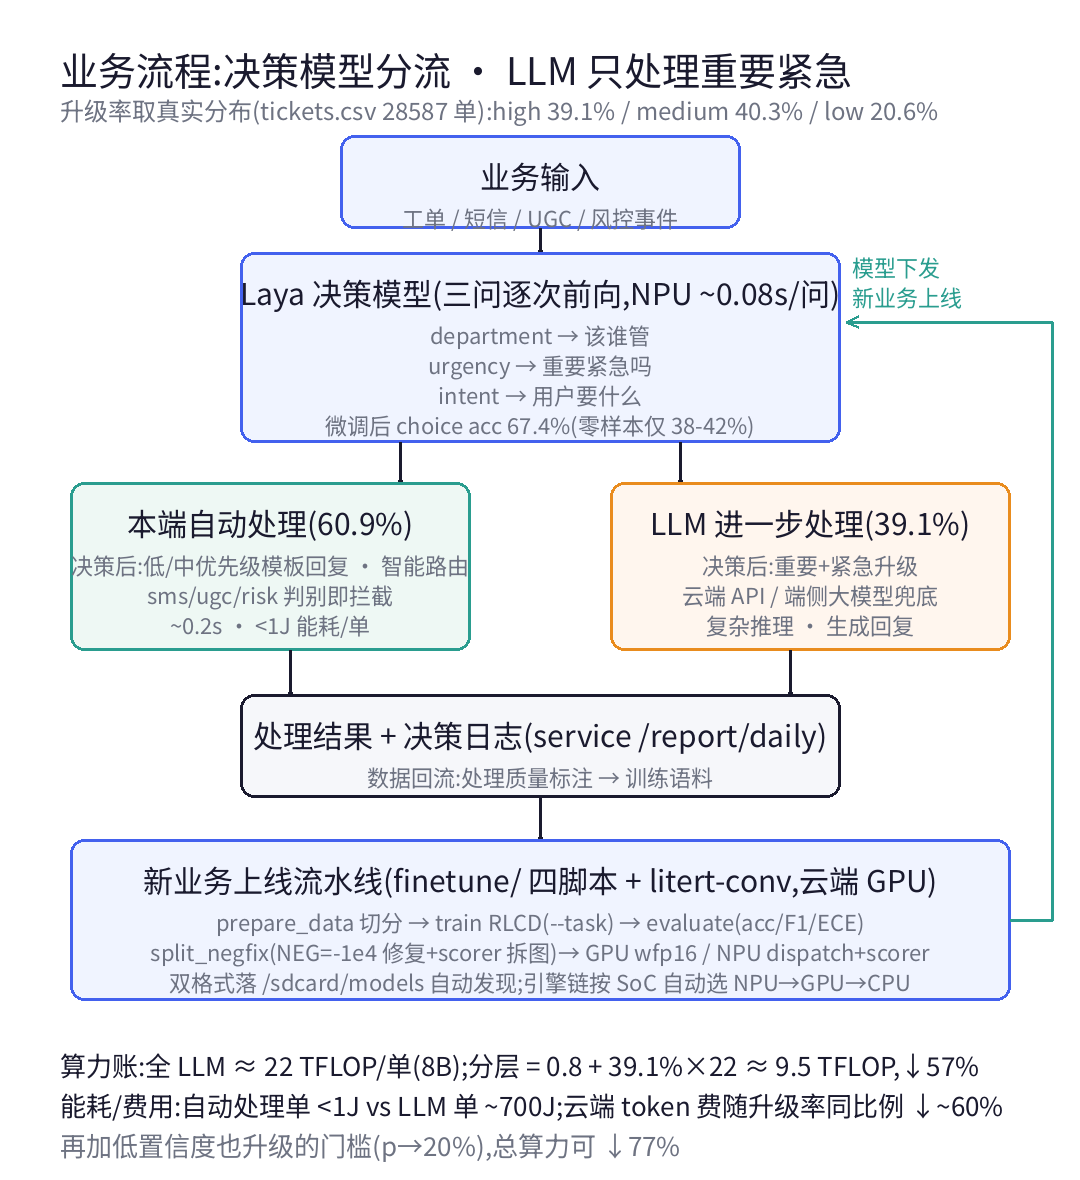
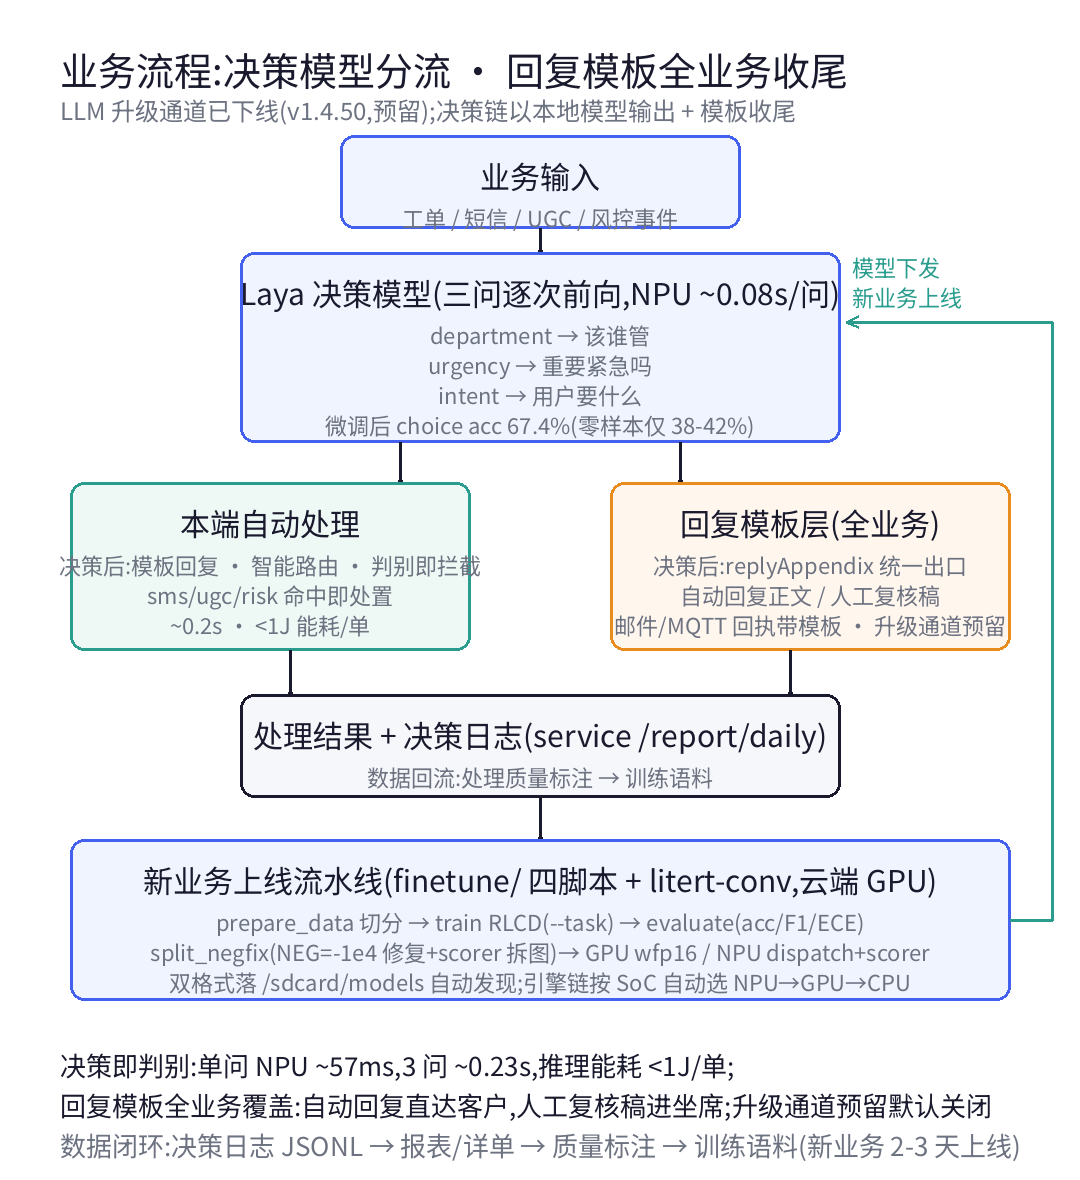
采集-决策-回复链路图/文档同步:架构图/流程图/泳道图(figs.py重生成+figs/)+APK自绘DiagramView(zh/en)——LLM升级通道改标注为预留默认关闭,新增回复模板层与cs实时主题;readme决策链/reply字段/网关cs/采集对比工具;changelog v1.4.50

diff --git a/apk/src/com/selfhost/layatest/DiagramView.java b/apk/src/com/selfhost/layatest/DiagramView.java
@@ -9,9 +9,9 @@ import android.view.View;
 
 /**
  * 系统页示意图(零依赖 Canvas 自绘)。文字全部来自 strings 资源(随语言切换),颜色经 Ui 主题(随深浅色切换)。
- * mode 0 = 架构图(分层决策:云端微调 + LLM 升级通道);
+ * mode 0 = 架构图(云端微调 + 回复模板层,LLM 升级通道 v1.4.50 起预留默认关闭);
  * mode 1/2 = 数据流泳道(横带 = 参与方,一次决策请求自上而下;两 mode 同布局);
- * mode 3 = 业务流程图(决策分流 → 本端处理/交付 LLM → 日志 → 微调闭环)。
+ * mode 3 = 业务流程图(决策分流 → 本端处理/回复模板 → 日志 → 微调闭环)。
  */
 public class DiagramView extends View {
   private final int mode;
@@ -137,7 +137,7 @@ public class DiagramView extends View {
     c.drawText(label, lx, ly, t);
   }
 
-  /** 架构图:云端(微调 + LLM 升级)→ 渠道 → 接入 → 决策核心(分流)→ 推理 → 模型/日志 */
+  /** 架构图:云端(微调)→ 渠道 → 接入 → 决策核心(分流)→ 推理 → 模型/回复模板 */
   private void drawArch(Canvas c) {
     box(c, 10, 10, 162, 74, R.string.diag_arch_tune_t, R.string.diag_arch_tune, th(0xFFEAF1FF, 0xFF1C2534));
     box(c, 188, 10, 162, 74, R.string.diag_arch_llm_t, R.string.diag_arch_llm, th(0xFFFFF3E0, 0xFF3A2E1C));
@@ -199,7 +199,7 @@ public class DiagramView extends View {
   }
 
   /** 数据流泳道(fig5 同构):横带 = 参与方,自上而下画一次决策请求的端到端路径。
-   *  蓝箭头 = 主流程;绿 = 张量数据(hidden/logits);橙 = 决策后升级 LLM(39.1%)。 */
+   *  蓝箭头 = 主流程;绿 = 张量数据(hidden/logits);橙 = 决策后套回复模板(全业务)。 */
   private void drawSwim(Canvas c, boolean vertical) {
     String[] lanes = sl(R.string.diag_sw_lanes);
     int[] bandBg = {th(0xFFF3F6FB, 0xFF232A35), th(0xFFF0F7F2, 0xFF22332C), th(0xFFF7F4FC, 0xFF2B2738), th(0xFFFCF6EC, 0xFF38301F), th(0xFFFBF0F4, 0xFF38252D)};

diff --git a/changelog.md b/changelog.md
@@ -1,5 +1,16 @@
 # Changelog
 
+## 2026-10-14 — v1.4.50:决策链去掉 LLM 流程 + 全业务网关采集
+
+- **决策链收尾**:DecisionCore.decide 默认 followLlm=false——决策后不再异步拉 LLM 升级,以本地模型输出 + 回复模板收尾;通道代码与网关页 LLM 设置保留,随时可复启
+- multi/phone 基础包恢复(ModelScope myjev 直拉,设备 7 业务全:multi/ticket/ugc/agent/risk/news/news2);risk/agent 同日恢复,NPU 234-239ms
+- 全业务网关自动采集:`service/collect-biz.mjs` 7 业务 × 样本经 MQTT cs 主题自动采集决策(21/21),--clear 清旧决策日志(app 侧 1061 条 + Termux 侧)
+- `service/compare-biz.mjs` 资讯 vs 客服决策对比(延迟/判定分布/模板结构)
+- 网关回执带模板:APK MQTT 回执与 /decide 响应加 reply 字段;Node 邮件回执 formatDecision 附 reply
+- 决策页 loadHistory 历史回显附回复模板(修"刷新丢模板")
+- 全业务回复模板:ugc/agent/risk 专属(自动回复+人工复核稿)+ news 等通用兜底;Node reply-templates.mjs 与 ReplyTemplates.kt 双端同构;JVM 1157 断言
+- 真机:分诊 80%(tickets.csv seed42)· 单条 NPU 218-245ms · ugc/agent/risk/news/multi 全引擎验证
+
 ## 2026-10-12 — v1.4.38:下载按钮收敛为 NPU/GPU(★ 标本机推荐变体)
 
 - 下载按钮组:NPU★ / GPU(移除 CPU 与 全量 项;变体包在 myjev 不存在则不显示)
